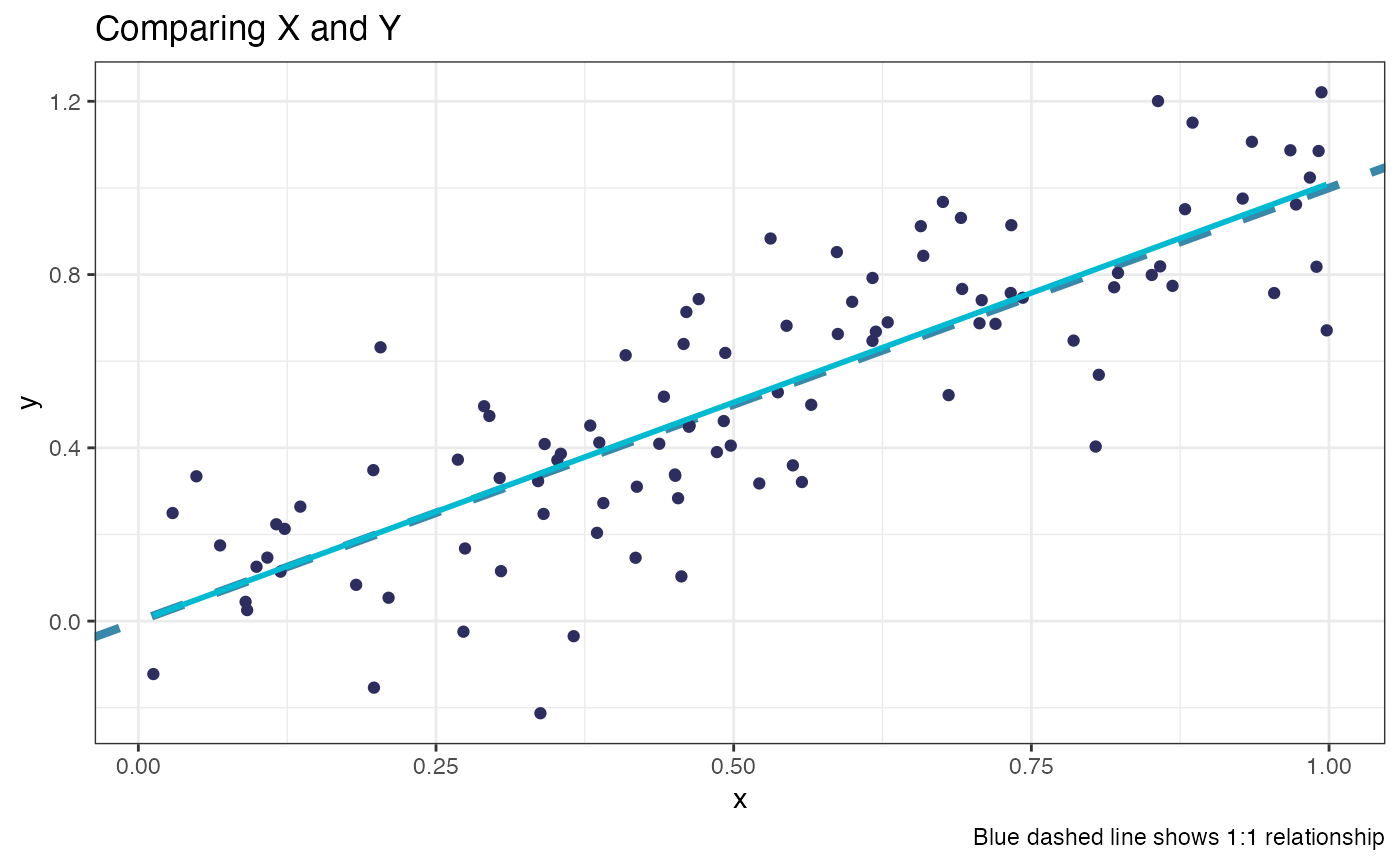
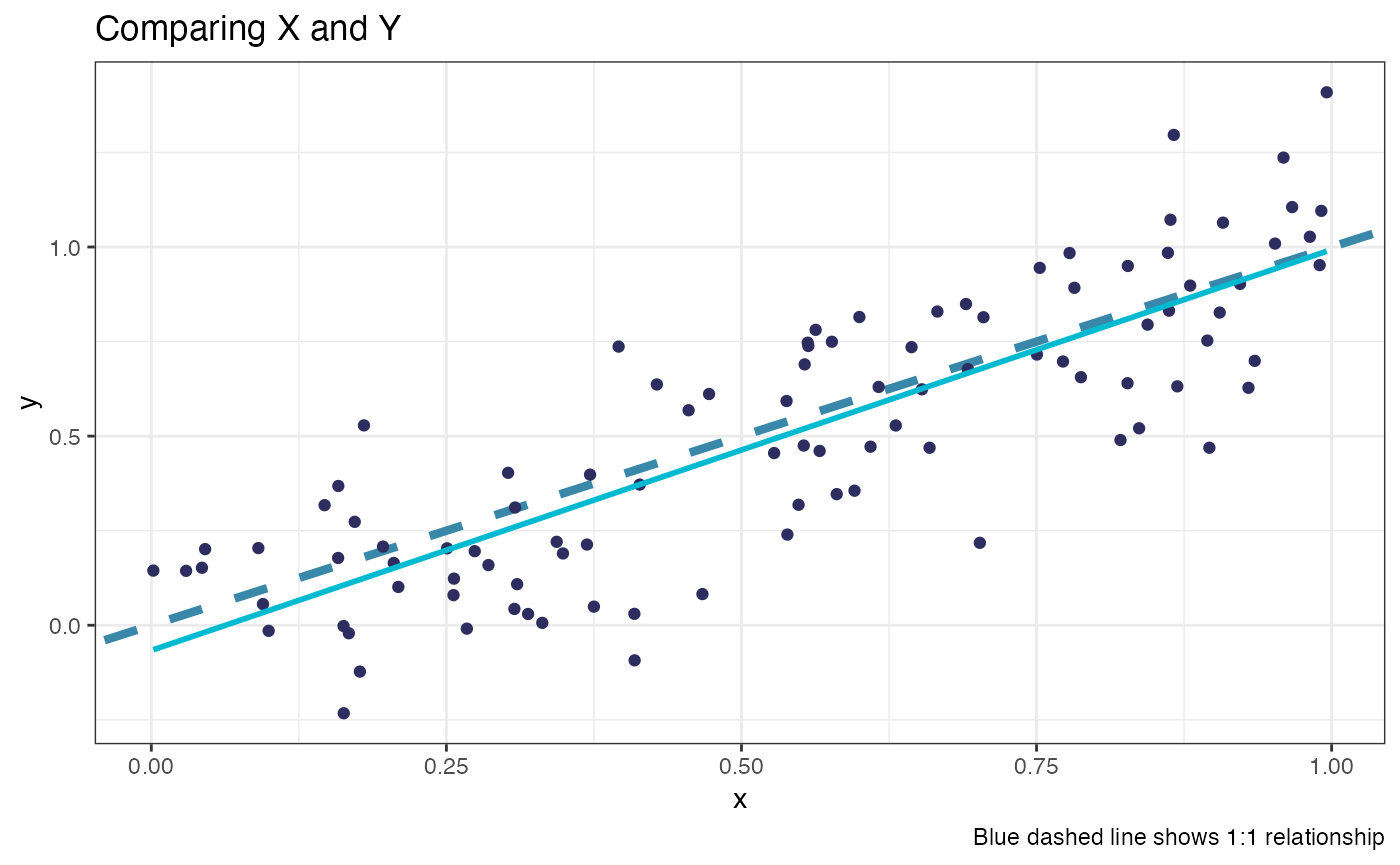
Building packagedown

diff --git a/docs/articles/HGUTheme.html b/docs/articles/HGUTheme.html
@@ -179,18 +179,18 @@ regression line on top. First we can make some fake data</p>
 <span><span class="op">)</span></span>
 <span><span class="va">plot_data</span></span>
 <span><span class="co">#&gt; <span style="color: #949494;"># A tibble: 100 × 2</span></span></span>
-<span><span class="co">#&gt;         x     y</span></span>
-<span><span class="co">#&gt;     <span style="color: #949494; font-style: italic;">&lt;dbl&gt;</span> <span style="color: #949494; font-style: italic;">&lt;dbl&gt;</span></span></span>
-<span><span class="co">#&gt; <span style="color: #BCBCBC;"> 1</span> 0.409  0.614</span></span>
-<span><span class="co">#&gt; <span style="color: #BCBCBC;"> 2</span> 0.587  0.663</span></span>
-<span><span class="co">#&gt; <span style="color: #BCBCBC;"> 3</span> 0.823  0.804</span></span>
-<span><span class="co">#&gt; <span style="color: #BCBCBC;"> 4</span> 0.355  0.386</span></span>
-<span><span class="co">#&gt; <span style="color: #BCBCBC;"> 5</span> 0.385  0.204</span></span>
-<span><span class="co">#&gt; <span style="color: #BCBCBC;"> 6</span> 0.305  0.115</span></span>
-<span><span class="co">#&gt; <span style="color: #BCBCBC;"> 7</span> 0.587  0.852</span></span>
-<span><span class="co">#&gt; <span style="color: #BCBCBC;"> 8</span> 0.706  0.688</span></span>
-<span><span class="co">#&gt; <span style="color: #BCBCBC;"> 9</span> 0.856  1.20 </span></span>
-<span><span class="co">#&gt; <span style="color: #BCBCBC;">10</span> 0.048<span style="text-decoration: underline;">7</span> 0.334</span></span>
+<span><span class="co">#&gt;         x        y</span></span>
+<span><span class="co">#&gt;     <span style="color: #949494; font-style: italic;">&lt;dbl&gt;</span>    <span style="color: #949494; font-style: italic;">&lt;dbl&gt;</span></span></span>
+<span><span class="co">#&gt; <span style="color: #BCBCBC;"> 1</span> 0.895   0.753  </span></span>
+<span><span class="co">#&gt; <span style="color: #BCBCBC;"> 2</span> 0.267  -<span style="color: #BB0000;">0.008</span><span style="color: #BB0000; text-decoration: underline;">94</span></span></span>
+<span><span class="co">#&gt; <span style="color: #BCBCBC;"> 3</span> 0.827   0.950  </span></span>
+<span><span class="co">#&gt; <span style="color: #BCBCBC;"> 4</span> 0.967   1.11   </span></span>
+<span><span class="co">#&gt; <span style="color: #BCBCBC;"> 5</span> 0.209   0.101  </span></span>
+<span><span class="co">#&gt; <span style="color: #BCBCBC;"> 6</span> 0.866   1.30   </span></span>
+<span><span class="co">#&gt; <span style="color: #BCBCBC;"> 7</span> 0.557   0.738  </span></span>
+<span><span class="co">#&gt; <span style="color: #BCBCBC;"> 8</span> 0.473   0.611  </span></span>
+<span><span class="co">#&gt; <span style="color: #BCBCBC;"> 9</span> 0.029<span style="text-decoration: underline;">5</span>  0.144  </span></span>
+<span><span class="co">#&gt; <span style="color: #BCBCBC;">10</span> 0.372   0.398  </span></span>
 <span><span class="co">#&gt; <span style="color: #949494;"># … with 90 more rows</span></span></span></code></pre></div>
 <p>Then we can make a simple plot that you might make for a
 presentation:</p>

diff --git a/docs/reference/hgu_palette.html b/docs/reference/hgu_palette.html
@@ -78,7 +78,7 @@
 <span class="r-out co"><span class="r-pr">#&gt;</span> {</span>
 <span class="r-out co"><span class="r-pr">#&gt;</span>     c(hgu_dark(), hgu_mid(), hgu_light())</span>
 <span class="r-out co"><span class="r-pr">#&gt;</span> }</span>
-<span class="r-out co"><span class="r-pr">#&gt;</span> &lt;bytecode: 0x7ff89b748678&gt;</span>
+<span class="r-out co"><span class="r-pr">#&gt;</span> &lt;bytecode: 0x7fde8fca9eb0&gt;</span>
 <span class="r-out co"><span class="r-pr">#&gt;</span> &lt;environment: namespace:HGUTheme&gt;</span>
 </code></pre></div>
     </div>
